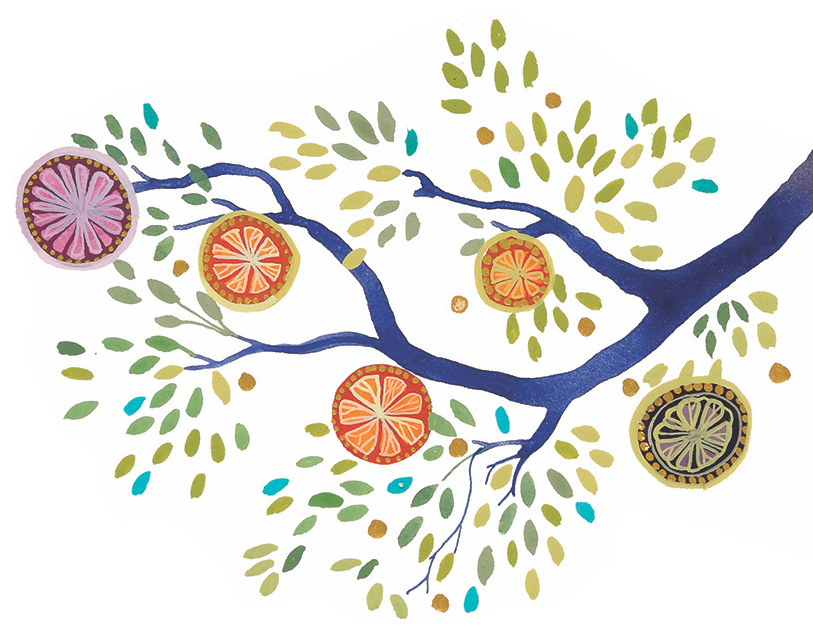
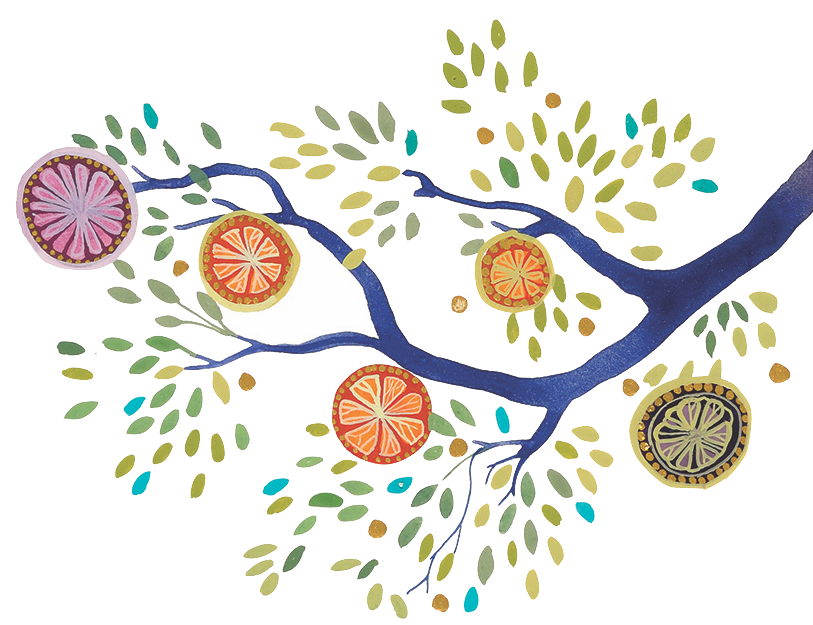
fixed background image

diff --git a/wed/index-en.html b/wed/index-en.html
@@ -43,7 +43,7 @@
 							<article id="me" class="panel">
 							
 									<names>
-										<img src="images/names.jpg">
+										<img src="images/names.png">
 									</names>
 									<!-- <h1>Ruth & Stefano</h1> -->
 									<h2>Barcelona, October 8th, 2016</h2>
@@ -110,7 +110,7 @@
 							</div>
 				
 							<bird>
-								<img src="images/bird.jpg" width="100%" height="100%">	
+								<img src="images/bird.png" width="100%" height="100%">	
 							</bird>
 
 							</article>						

diff --git a/wed/assets/css/main-en.css b/wed/assets/css/main-en.css
@@ -1069,7 +1069,7 @@
 
 			body {
 				 min-height:100%;
-				 background: url("images/branch.png") no-repeat center center fixed;
+				 background: url("images/branch2.png") no-repeat center center fixed;
 		  		 -webkit-background-size: cover;
 		   		 -moz-background-size: cover;
 				 -o-background-size: cover;
